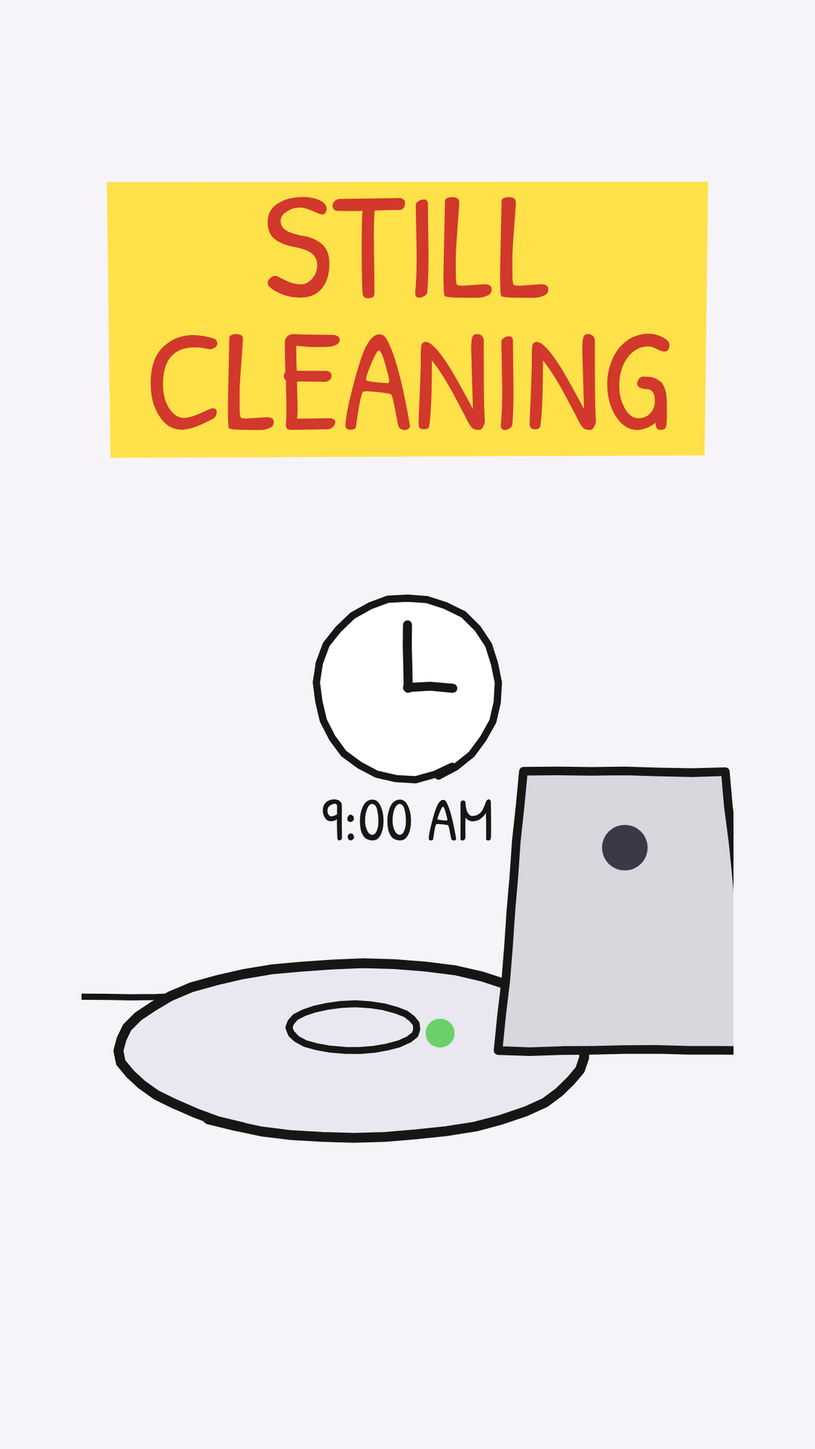
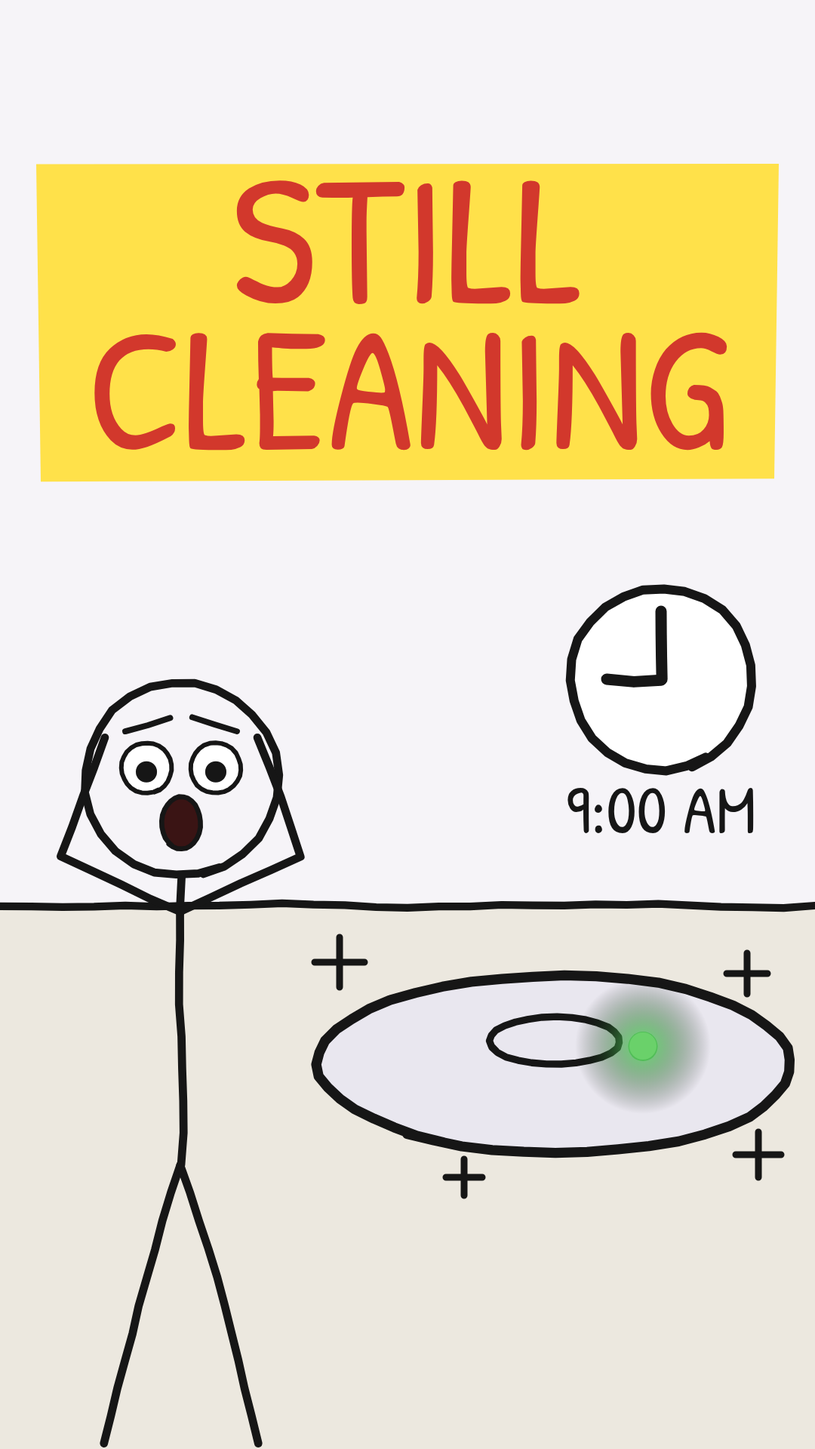
Robot vacuum short: phone-first cover v2 (figure, 2:3 safe), final title/description/tags
Claude-Session: https://claude.ai/code/session_01QZBGd8qH4EfV1MNE2nHfnB

diff --git a/episode4-last-light/source/cover_robot_vacuum_v2.html b/episode4-last-light/source/cover_robot_vacuum_v2.html
@@ -1,0 +1,356 @@
+<!doctype html>
+<html><head><meta charset="utf-8">
+<style>
+@font-face{font-family:"PHL";src:url(../work/node_modules/@fontsource/patrick-hand/files/patrick-hand-latin-400-normal.woff2)}
+@font-face{font-family:"PH";src:url(../work/node_modules/@fontsource/patrick-hand-sc/files/patrick-hand-sc-latin-400-normal.woff2)}
+html,body{margin:0;background:#000;overflow:hidden}canvas{display:block}
+</style></head>
+<body><canvas id="c" width="1080" height="1920"></canvas>
+<script>
+const W=1080,H=1920,CX=540,CY=960,DURATION=147.5;
+const cv=document.getElementById('c'),ctx=cv.getContext('2d');
+const BG='#f6f4f8',INK='#161616',RED='#d2382c',GREY='#a3a1a8',PAPER='#fbfafd',LW=3.4;
+const clamp=(x,a=0,b=1)=>Math.min(b,Math.max(a,x));
+const P=(t,a,b)=>clamp((t-a)/(b-a));
+const lerp=(a,b,k)=>a+(b-a)*k;
+const eOut=k=>1-Math.pow(1-k,3);
+const eIn=k=>k*k*k;
+const eInOut=k=>k<.5?4*k*k*k:1-Math.pow(-2*k+2,3)/2;
+const eBack=k=>{const c1=2.0,c3=c1+1;return 1+c3*Math.pow(k-1,3)+c1*Math.pow(k-1,2)};
+const TAU=Math.PI*2;
+function rng(seed){return()=>{seed|=0;seed=seed+0x6D2B79F5|0;let t=Math.imul(seed^seed>>>15,1|seed);t=t+Math.imul(t^t>>>7,61|t)^t;return((t^t>>>14)>>>0)/4294967296}}
+const nz=(x,s)=>Math.sin(x*1.7+s)*0.5+Math.sin(x*3.1+s*2.3)*0.3+Math.sin(x*7.3+s*5.1)*0.2;
+// pop-in scale: 0 before t0, overshoot then settle
+const pop=(t,t0,d=0.22)=>t<t0?0:eBack(clamp((t-t0)/d));
+
+// ---------------- pen ----------------
+function wob(pts,seed,amp=1.4){ // subdivide + smooth perpendicular wobble
+  const out=[];let s=0;
+  for(let i=0;i<pts.length-1;i++){const[a,b]=[pts[i],pts[i+1]];const dx=b[0]-a[0],dy=b[1]-a[1],L=Math.hypot(dx,dy)||1;const n=Math.max(1,Math.ceil(L/14));const px=-dy/L,py=dx/L;
+    for(let j=0;j<n;j++){const k=j/n,o=nz((s+L*k)*0.025,seed)*amp;out.push([a[0]+dx*k+px*o,a[1]+dy*k+py*o]);}s+=L;}
+  const l=pts[pts.length-1];out.push([l[0],l[1]]);return out;}
+function strokePts(pts,k=1,w=LW,col=INK){
+  if(k<=0||pts.length<2)return;ctx.strokeStyle=col;ctx.lineWidth=w;ctx.lineCap='round';ctx.lineJoin='round';
+  let tot=0;const L=[0];for(let i=1;i<pts.length;i++){tot+=Math.hypot(pts[i][0]-pts[i-1][0],pts[i][1]-pts[i-1][1]);L.push(tot);}
+  const lim=tot*clamp(k);ctx.beginPath();ctx.moveTo(pts[0][0],pts[0][1]);
+  for(let i=1;i<pts.length;i++){if(L[i]<=lim)ctx.lineTo(pts[i][0],pts[i][1]);else{const f=(lim-L[i-1])/(L[i]-L[i-1]||1);ctx.lineTo(lerp(pts[i-1][0],pts[i][0],f),lerp(pts[i-1][1],pts[i][1],f));break;}}
+  ctx.stroke();}
+function line(x1,y1,x2,y2,seed=1,k=1,w=LW,col=INK){strokePts(wob([[x1,y1],[x2,y2]],seed,1.2),k,w,col);}
+function circlePts(x,y,r,seed,ry){const R=rng(seed);const a0=R()*TAU,n=Math.max(28,Math.floor(r*0.6)),pts=[];ry=ry??r;
+  for(let i=0;i<=n;i++){const a=a0+(TAU+0.18)*i/n;const rr=1+0.018*nz(a*2,seed)+(i/n)*0.012;pts.push([x+Math.cos(a)*r*rr,y+Math.sin(a)*ry*rr]);}return pts;}
+function circ(x,y,r,o={}){const pts=circlePts(x,y,r,o.seed??7,o.ry);
+  if(o.fill){ctx.fillStyle=o.fill;ctx.beginPath();ctx.ellipse(x,y,r,o.ry??r,0,0,TAU);ctx.fill();}
+  if(o.dash)ctx.setLineDash(o.dash);strokePts(pts,o.k??1,o.w??LW,o.col??INK);ctx.setLineDash([]);}
+function rect(x,y,w,h,seed=3,k=1,lw=LW,col=INK){const o=5;const R=rng(seed);const sides=[[[x-o*R(),y],[x+w+o*R(),y]],[[x+w,y-o*R()],[x+w,y+h+o*R()]],[[x+w+o*R(),y+h],[x-o*R(),y+h]],[[x,y+h+o*R()],[x,y-o*R()]]];
+  sides.forEach((s,i)=>strokePts(wob(s,seed+i,1.1),clamp(k*4-i),lw,col));}
+function arrow(x1,y1,x2,y2,o={}){const seed=o.seed??5,k=o.k??1,col=o.col??INK,w=o.w??LW,hs=o.head??18;
+  line(x1,y1,x2,y2,seed,k,w,col);if(k<1)return;const a=Math.atan2(y2-y1,x2-x1);
+  for(const s of[-1,1]){const b=a+Math.PI-s*0.5;line(x2,y2,x2+Math.cos(b)*hs,y2+Math.sin(b)*hs,seed+s+3,1,w,col);}
+  if(o.both){for(const s of[-1,1]){const b=a-s*0.5;line(x1,y1,x1+Math.cos(b)*hs,y1+Math.sin(b)*hs,seed+s+9,1,w,col);}}}
+function bigArrow(x1,y1,x2,y2,th,k=1,seed=11){ // hollow block arrow
+  const a=Math.atan2(y2-y1,x2-x1),L=Math.hypot(x2-x1,y2-y1)*k;if(L<5)return;const hl=Math.min(th*2.2,L*0.6),c=Math.cos(a),s=Math.sin(a);
+  const loc=(u,v)=>[x1+c*u-s*v,y1+s*u+c*v];
+  const pts=[loc(0,-th/2),loc(L-hl,-th/2),loc(L-hl,-th*1.15),loc(L,0),loc(L-hl,th*1.15),loc(L-hl,th/2),loc(0,th/2),loc(0,-th/2)];
+  ctx.fillStyle=PAPER;ctx.beginPath();pts.forEach((p,i)=>i?ctx.lineTo(p[0],p[1]):ctx.moveTo(p[0],p[1]));ctx.fill();
+  strokePts(wob(pts,seed,1.1));}
+function txt(s,x,y,size,o={}){ // handwriting, revealed letter by letter when o.k<1
+  const k=o.k??1;if(k<=0)return;ctx.save();ctx.font=`${size}px "PH"`;ctx.textBaseline='middle';ctx.fillStyle=o.col??INK;
+  const full=ctx.measureText(s).width;const n=Math.ceil(s.length*clamp(k));const sub=s.slice(0,n);
+  let x0=o.align==='left'?x:o.align==='right'?x-full:x-full/2;
+  if(o.rot){ctx.translate(x,y);ctx.rotate(o.rot);ctx.translate(-x,-y);}
+  ctx.globalAlpha*=(o.a??1);ctx.fillText(sub,x0,y);ctx.restore();return full;}
+const writeK=(t,t0,s,cps=26)=>t<t0?0:clamp((t-t0)*cps/Math.max(1,s.length));
+function sup(base,exp,x,y,size,o={}){ctx.save();ctx.font=`${size}px "PH"`;ctx.textBaseline='middle';ctx.fillStyle=o.col??INK;const wb=ctx.measureText(base).width;ctx.font=`${size*0.55}px "PH"`;const we=ctx.measureText(exp).width;
+  const x0=x-(wb+we)/2;ctx.font=`${size}px "PH"`;ctx.fillText(base,x0,y);ctx.font=`${size*0.55}px "PH"`;ctx.fillText(exp,x0+wb+2,y-size*0.38);ctx.restore();}
+function scribble(x,y,w,h,seed,k,col=RED){const R=rng(seed);const pts=[];const n=9;for(let i=0;i<=n;i++){pts.push([x+w*i/n+(R()-.5)*8,y+(i%2?-h/2:h/2)+(R()-.5)*6]);}strokePts(wob(pts,seed,1),k,4,col);}
+function motionLines(x,y,ang,len,n,seed,k=1){const c=Math.cos(ang),s=Math.sin(ang),R=rng(seed);for(let i=0;i<n;i++){const off=(i-(n-1)/2)*14;const l=len*(0.6+R()*0.4);
+  const sx=x-c*20-s*off,sy=y-s*20+c*off;line(sx,sy,sx-c*l,sy-s*l,seed+i,k,2.6);}}
+function shakeMarks(x,y,r,seed,a=1){if(a<=0)return;ctx.save();ctx.globalAlpha=a;for(const side of[-1,1]){for(let i=0;i<2;i++){const rr=r+16+i*14;const pts=[];for(let j=0;j<=8;j++){const an=(side<0?Math.PI:0)+(-0.35+0.7*j/8);pts.push([x+Math.cos(an)*rr,y+Math.sin(an)*rr]);}strokePts(wob(pts,seed+i+side*5,0.8),1,2.6);}}ctx.restore();}
+
+// ---------------- glyphs ----------------
+function proton(x,y,r,o={}){const s=o.s??1;if(s<=0)return;r*=s;circ(x,y,r,{fill:PAPER,seed:o.seed??Math.floor(x*7+y*3),w:o.w??LW});
+  const c=o.plusCol??INK,q=r*0.5;line(x-q,y,x+q,y,(o.seed??1)+1,1,o.w??LW,c);line(x,y-q,x,y+q,(o.seed??1)+2,1,o.w??LW,c);}
+function electron(x,y,r,o={}){const s=o.s??1;if(s<=0)return;r*=s;circ(x,y,r,{fill:PAPER,seed:o.seed??Math.floor(x*5+y*11),w:o.w??LW});
+  ctx.save();ctx.font=`${r*1.5}px "PHL"`;ctx.textAlign='center';ctx.textBaseline='middle';ctx.fillStyle=INK;ctx.fillText('e',x-r*0.1,y-r*0.08);ctx.font=`${r*0.9}px "PHL"`;ctx.fillText('-',x+r*0.45,y-r*0.45);ctx.restore();}
+function neutron(x,y,r,o={}){const s=o.s??1;if(s<=0)return;r*=s;circ(x,y,r,{fill:'#d9d7de',seed:o.seed??Math.floor(x*3+y*13),w:o.w??LW});}
+// sprite for dense proton fills
+const PSPR=(()=>{const c=document.createElement('canvas');c.width=c.height=64;const g=c.getContext('2d');g.fillStyle=PAPER;g.strokeStyle=INK;g.lineWidth=3;g.lineCap='round';
+  g.beginPath();g.arc(32,32,24,0,TAU);g.fill();g.stroke();g.beginPath();g.moveTo(20,32);g.lineTo(44,32);g.moveTo(32,20);g.lineTo(32,44);g.stroke();return c;})();
+// moon texture (grey with ink craters), drawn in clip
+const MOONTEX=(()=>{const s=600,c=document.createElement('canvas');c.width=c.height=s;const g=c.getContext('2d');const R=rng(31);
+  g.fillStyle='#9e9ca4';g.fillRect(0,0,s,s);
+  for(let i=0;i<40;i++){g.fillStyle=R()<.5?'rgba(60,58,66,0.18)':'rgba(255,255,255,0.12)';g.beginPath();g.arc(R()*s,R()*s,20+R()*70,0,TAU);g.fill();}
+  g.strokeStyle='#2a2a2e';g.lineCap='round';
+  for(let i=0;i<220;i++){const r=3+Math.pow(R(),2.5)*30,x=R()*s,y=R()*s;g.lineWidth=r>12?2.2:1.6;g.beginPath();g.arc(x,y,r,R()*TAU,R()*TAU+TAU*(0.6+R()*0.4));g.stroke();}
+  for(let i=0;i<500;i++){g.fillStyle='rgba(30,30,34,0.5)';g.fillRect(R()*s,R()*s,2,2);}
+  return c;})();
+function moon(x,y,r,o={}){const s=o.s??1;if(s<=0)return;r*=s;ctx.save();ctx.beginPath();ctx.arc(x,y,r,0,TAU);ctx.clip();ctx.drawImage(MOONTEX,x-r,y-r,r*2,r*2);ctx.restore();circ(x,y,r,{seed:o.seed??41,w:LW+0.6});}
+function protonBall(x,y,r,o={}){ // moon made of protons
+  const s=o.s??1;if(s<=0)return;r*=s;const pr=o.pr??15,jit=o.jit??0,t=o.t??0;ctx.save();ctx.beginPath();ctx.arc(x,y,r+pr,0,TAU);ctx.clip();
+  const st=pr*1.95;let i=0;for(let yy=-r;yy<=r;yy+=st*0.87){const off=(Math.round(yy/(st*0.87))&1)*st/2;for(let xx=-r-off;xx<=r;xx+=st){i++;if(xx*xx+yy*yy>(r-pr*0.6)**2)continue;
+    const jx=nz(t*18+i,i)*jit,jy=nz(t*21+i*1.3,i+4)*jit;ctx.drawImage(PSPR,x+xx+jx-pr,y+yy+jy-pr,pr*2,pr*2);}}
+  ctx.restore();circ(x,y,r,{seed:o.seed??43,w:LW+0.4});}
+
+// ---------------- stick figure ----------------
+const POSES={
+  rest:{la:[-0.22,-0.12],ra:[0.22,0.12],ll:[-0.28,-0.22],rl:[0.28,0.22],paper:0},
+  paper:{la:[-0.22,-0.12],ra:[0.45,2.45],ll:[-0.26,-0.2],rl:[0.26,0.2],paper:1},
+  point:{la:[-0.22,-0.12],ra:[2.1,2.05],ll:[-0.26,-0.2],rl:[0.26,0.2],paper:0},
+  chin:{la:[-0.3,0.9],ra:[0.35,2.75],ll:[-0.24,-0.18],rl:[0.24,0.18],paper:0},
+  shrug:{la:[-0.9,-2.2],ra:[0.9,2.2],ll:[-0.26,-0.2],rl:[0.26,0.2],paper:0},
+  up:{la:[-2.55,-2.85],ra:[2.55,2.85],ll:[-0.32,-0.25],rl:[0.32,0.25],paper:0},
+};
+function lerpPose(a,b,k){const o={};for(const key of['la','ra','ll','rl'])o[key]=[lerp(a[key][0],b[key][0],k),lerp(a[key][1],b[key][1],k)];o.paper=lerp(a.paper,b.paper,k);return o;}
+function figure(x,y,pose,o={}){ // y = ground at feet
+  if((o.s??1)<0.15)return;
+  const sc=o.s??1;ctx.save();ctx.translate(x,y);if(o.rot)ctx.rotate(o.rot);ctx.scale(sc,sc);const seed=o.seed??100;
+  const hip=[0,-112],neck=[0,-226],sh=[0,-212],head=[0,-264];
+  const seg=(p,a,L)=>[p[0]+Math.sin(a)*L,p[1]+Math.cos(a)*L];
+  const limb=(p,ang,L1,L2,sd)=>{const m=seg(p,ang[0],L1),e=seg(m,ang[1],L2);strokePts(wob([p,m,e],sd,0.8),1,LW/sc*1.05);return e;};
+  circ(head[0],head[1],38,{seed:seed,fill:BG,w:LW/sc*1.05});
+  line(neck[0],neck[1],hip[0],hip[1],seed+1,1,LW/sc*1.05);
+  limb(hip,pose.ll,58,56,seed+2);limb(hip,pose.rl,58,56,seed+3);
+  limb(sh,pose.la,52,50,seed+4);const hand=limb(sh,pose.ra,52,50,seed+5);
+  if(pose.paper>0.5){ctx.save();ctx.translate(hand[0]+6,hand[1]-6);ctx.rotate(0.12);ctx.fillStyle=PAPER;ctx.fillRect(-10,-38,50,68);rect(-10,-38,50,68,seed+6,1,LW*0.8/sc);for(let i=0;i<4;i++)line(-2,-24+i*13,30,-24+i*13,seed+10+i,1,1.4,'#777');ctx.restore();}
+  ctx.restore();}
+function speech(x,y,s,k,size=40){if(k<=0)return;txt(s,x,y,size,{k});const w=txt(s,-9999,-9999,size);line(x-10,y+size*0.55,x-26,y+size*1.25,77,clamp(k*2),2.6);}
+function board(x,y,w,h,k=1,seed=200){ctx.save();ctx.fillStyle='#fdfcff';ctx.globalAlpha=clamp(k*3);ctx.fillRect(x,y,w,h);ctx.restore();rect(x,y,w,h,seed,k,LW+0.4);rect(x+9,y+9,w-18,h-18,seed+4,k,2.2);
+  if(k>=1){rect(x-22,y+h,w+44,16,seed+8,1,LW);rect(x+40,y+h-12,60,12,seed+9,1,2.4);rect(x+w-150,y+h-14,46,14,seed+10,1,2.4);rect(x+w-96,y+h-12,58,12,seed+11,1,2.4);}}
+
+// ================= VIDEO 2: What if the Moon were made of antimatter? =================
+// timings come from the forced alignment of the voiceover (align.json)
+const PINK='#fbe3e0',SUNY='#fff1c2',SEA='#e9eef7',LAND='#cfcbd6';
+
+// ---------- extra glyphs ----------
+function antiproton(x,y,r,o={}){const s=o.s??1;if(s<=0)return;r*=s;const sd=o.seed??Math.floor(x*7+y*3);circ(x,y,r,{fill:PINK,seed:sd,col:RED,w:o.w??LW});line(x-r*0.5,y,x+r*0.5,y,sd+1,1,o.w??LW,RED);}
+function positron(x,y,r,o={}){const s=o.s??1;if(s<=0)return;r*=s;circ(x,y,r,{fill:PINK,seed:o.seed??Math.floor(x*5+y*11),col:RED,w:o.w??LW});
+  ctx.save();ctx.font=`${r*1.5}px "PHL"`;ctx.textAlign='center';ctx.textBaseline='middle';ctx.fillStyle=RED;ctx.fillText('e',x-r*0.1,y-r*0.08);ctx.font=`${r*0.95}px "PHL"`;ctx.fillText('+',x+r*0.47,y-r*0.42);ctx.restore();}
+function antineutron(x,y,r,o={}){const s=o.s??1;if(s<=0)return;r*=s;circ(x,y,r,{fill:'#ecd3d6',seed:o.seed??Math.floor(x*3+y*13),col:RED,w:o.w??LW});}
+const APSPR=(()=>{const c=document.createElement('canvas');c.width=c.height=64;const g=c.getContext('2d');g.fillStyle=PINK;g.strokeStyle=RED;g.lineWidth=3;g.lineCap='round';
+  g.beginPath();g.arc(32,32,24,0,TAU);g.fill();g.stroke();g.beginPath();g.moveTo(20,32);g.lineTo(44,32);g.stroke();return c;})();
+function antiBall(x,y,r,o={}){const s=o.s??1;if(s<=0)return;r*=s;const pr=o.pr??15,jit=o.jit??0,t=o.t??0;ctx.save();ctx.beginPath();ctx.arc(x,y,r+pr,0,TAU);ctx.clip();
+  const st=pr*1.95;let i=0;for(let yy=-r;yy<=r;yy+=st*0.87){const off=(Math.round(yy/(st*0.87))&1)*st/2;for(let xx=-r-off;xx<=r;xx+=st){i++;if(xx*xx+yy*yy>(r-pr*0.6)**2)continue;
+    const jx=nz(t*18+i,i)*jit,jy=nz(t*21+i*1.3,i+4)*jit;ctx.drawImage(APSPR,x+xx+jx-pr,y+yy+jy-pr,pr*2,pr*2);}}
+  ctx.restore();circ(x,y,r,{seed:o.seed??47,w:LW+0.4,col:RED});}
+function antiMoon(x,y,r,o={}){const s=o.s??1;if(s<=0)return;moon(x,y,r,o);circ(x,y,(r+12)*s,{col:RED,w:3,dash:[12,10],seed:(o.seed??41)+5});}
+function earth(x,y,r,o={}){const s=o.s??1;if(s<=0)return;r*=s;const sd=o.seed??61;ctx.save();ctx.beginPath();ctx.arc(x,y,r,0,TAU);ctx.fillStyle=SEA;ctx.fill();ctx.clip();
+  const R=rng(sd);const blobs=o.simple?2:5;for(let b=0;b<blobs;b++){const bx=x+(R()-.5)*r*1.3,by=y+(R()-.5)*r*1.3,br=r*(0.22+R()*0.25);const pts=[];for(let i=0;i<=16;i++){const a=i/16*TAU;const rr=br*(0.7+0.5*R());pts.push([bx+Math.cos(a)*rr,by+Math.sin(a)*rr*0.8]);}pts.push(pts[0]);
+    ctx.fillStyle=LAND;ctx.beginPath();pts.forEach((p,i)=>i?ctx.lineTo(p[0],p[1]):ctx.moveTo(p[0],p[1]));ctx.fill();if(!o.simple)strokePts(wob(pts,sd+b,0.8),1,2,INK);}
+  ctx.restore();circ(x,y,r,{seed:sd+9,w:o.w??LW+0.4});}
+function sunGlyph(x,y,r,t,o={}){const sd=o.seed??71;for(let i=0;i<16;i++){const a=i/16*TAU+t*0.15;const r0=r+16,r1=r+(i%2?46:70);line(x+Math.cos(a)*r0,y+Math.sin(a)*r0,x+Math.cos(a)*r1,y+Math.sin(a)*r1,sd+i,1,3.2);}
+  circ(x,y,r,{fill:SUNY,seed:sd,w:LW+0.6});}
+function cloudPath(x,y,rx,ry,seed){const R=rng(seed);const pts=[];const n=11;for(let i=0;i<n;i++){const a0=i/n*TAU,a1=(i+1)/n*TAU,b=0.18+R()*0.12;for(let j=0;j<=6;j++){const a=lerp(a0,a1,j/6);const bump=1+b*Math.sin(j/6*Math.PI);pts.push([x+Math.cos(a)*rx*bump,y+Math.sin(a)*ry*bump]);}}pts.push(pts[0]);return pts;}
+function fillPts(pts,col){ctx.fillStyle=col;ctx.beginPath();pts.forEach((p,i)=>i?ctx.lineTo(p[0],p[1]):ctx.moveTo(p[0],p[1]));ctx.closePath();ctx.fill();}
+function mushroom(x,y,s,seed){if(s<=0)return;const sw=24*s,sh=120*s;
+  const stem=[[x-sw,y],[x-sw*0.55,y-sh],[x+sw*0.55,y-sh],[x+sw,y]];fillPts(stem,PAPER);strokePts(wob([stem[0],stem[1]],seed,1));strokePts(wob([stem[3],stem[2]],seed+1,1));
+  const base=cloudPath(x,y,85*s,20*s,seed+2);fillPts(base,PAPER);strokePts(wob(base,seed+3,0.8),1,LW);
+  const cap=cloudPath(x,y-sh-40*s,100*s,55*s,seed+4);fillPts(cap,PAPER);strokePts(wob(cap,seed+5,0.8),1,LW);
+  line(x-60*s,y-sh-45*s,x+50*s,y-sh-30*s,seed+6,1,2,'#888');}
+function boom(x,y,tl,R,seed,o={}){if(tl<0)return;const k=eOut(clamp(tl/0.3));const fade=1-clamp((tl-(o.hold??0.35))/(o.fade??0.8));if(fade<=0)return;
+  ctx.save();ctx.globalAlpha=fade;const r0=rng(seed);const n=18,pts=[];for(let i=0;i<n*2;i++){const a=i/(n*2)*TAU;const rr=R*k*(i%2?0.55:1)*(0.85+r0()*0.3);pts.push([x+Math.cos(a)*rr,y+Math.sin(a)*rr]);}pts.push(pts[0]);
+  fillPts(pts,'#fffdf4');strokePts(wob(pts,seed,1),1,LW);
+  const inner=pts.map(([px,py])=>[x+(px-x)*0.55,y+(py-y)*0.55]);fillPts(inner,'#fde0c8');strokePts(wob(inner,seed+1,0.8),1,2.4,RED);
+  for(let i=0;i<14;i++){const a=i/14*TAU+0.2;const a0=R*k*1.1,a1=R*k*(1.35+r0()*0.3);line(x+Math.cos(a)*a0,y+Math.sin(a)*a0,x+Math.cos(a)*a1,y+Math.sin(a)*a1,seed+10+i,1,3);}
+  ctx.restore();}
+function greyFlash(x,y,tl,dur=0.9){const fk=clamp(tl/dur);if(tl<0||fk>=1)return;const g=ctx.createRadialGradient(x,y,0,x,y,1500);g.addColorStop(0,'rgba(255,255,255,1)');g.addColorStop(0.25,`rgba(205,203,210,${0.9*(1-fk)})`);g.addColorStop(1,`rgba(120,118,128,${0.85*(1-fk)})`);ctx.fillStyle=g;ctx.fillRect(-50,-50,W+100,H+100);}
+function rockGlyph(x,y,r,seed,anti=false){const R=rng(seed);const pts=[];for(let i=0;i<10;i++){const a=i/10*TAU;const rr=r*(0.78+R()*0.32);pts.push([x+Math.cos(a)*rr,y+Math.sin(a)*rr*0.85]);}pts.push(pts[0]);
+  fillPts(pts,anti?PINK:'#d6d3dc');strokePts(wob(pts,seed,0.8),1,LW,anti?RED:INK);for(let i=0;i<3;i++){const hx=x+(R()-.5)*r,hy=y+(R()-.5)*r*0.6;line(hx,hy,hx+r*0.25,hy-r*0.12,seed+i+3,1,2,anti?RED:'#666');}}
+function check(x,y,sz,k,col=RED){if(k<=0)return;strokePts([[x-sz*0.5,y],[x-sz*0.12,y+sz*0.42],[x+sz*0.6,y-sz*0.5]],k,5,col);}
+function cross(x,y,sz,k,col=RED){if(k<=0)return;line(x-sz,y-sz,x+sz,y+sz,901,clamp(k*2),5,col);line(x+sz,y-sz,x-sz,y+sz,902,clamp(k*2-1),5,col);}
+function cube(x,y,s,anti,o={}){if(s<=0)return;const a=50*s,d=22*s;const col=anti?RED:INK,f=anti?PINK:PAPER;
+  fillPts([[x-a/2,y-a/2],[x+a/2,y-a/2],[x+a/2,y+a/2],[x-a/2,y+a/2]],f);fillPts([[x-a/2,y-a/2],[x-a/2+d,y-a/2-d],[x+a/2+d,y-a/2-d],[x+a/2,y-a/2]],f);fillPts([[x+a/2,y-a/2],[x+a/2+d,y-a/2-d],[x+a/2+d,y+a/2-d],[x+a/2,y+a/2]],f);
+  rect(x-a/2,y-a/2,a,a,o.seed??5,1,LW,col);strokePts(wob([[x-a/2,y-a/2],[x-a/2+d,y-a/2-d],[x+a/2+d,y-a/2-d],[x+a/2+d,y+a/2-d],[x+a/2,y+a/2]],(o.seed??5)+3,0.8),1,LW,col);line(x+a/2,y-a/2,x+a/2+d,y-a/2-d,(o.seed??5)+4,1,LW,col);}
+function wave(x1,y1,x2,y2,k,seed,col=RED,amp=9,wl=26,w=2.8){const L=Math.hypot(x2-x1,y2-y1),ux=(x2-x1)/L,uy=(y2-y1)/L;const pts=[];for(let s=0;s<=L;s+=4){const o=Math.sin(s/wl*TAU+seed)*amp;pts.push([x1+ux*s-uy*o,y1+uy*s+ux*o]);}strokePts(pts,k,w,col);}
+function heart(x,y,s,col=RED){const pts=[];for(let i=0;i<=40;i++){const t=i/40*TAU;const hx=16*Math.sin(t)**3,hy=-(13*Math.cos(t)-5*Math.cos(2*t)-2*Math.cos(3*t)-Math.cos(4*t));pts.push([x+hx*s,y+hy*s]);}fillPts(pts,'#f6c7c2');strokePts(wob(pts,77,0.6),1,3,col);}
+function lander(x,y,s,seed=1201){const P2=(px,py)=>[x+px*s,y+py*s];
+  for(const sx of[-1,1]){strokePts(wob([P2(sx*40,20),P2(sx*78,78)],seed+sx,0.6),1,LW);line(...P2(sx*90,80),...P2(sx*66,80),seed+sx+3,1,LW);}
+  fillPts([P2(-48,-30),P2(48,-30),P2(52,24),P2(-52,24)],PAPER);rect(x-50*s,y-30*s,100*s,54*s,seed+5,1,LW);
+  const top=[P2(-34,-30),P2(-26,-78),P2(26,-78),P2(34,-30)];fillPts(top,PAPER);strokePts(wob([...top],seed+6,0.6));
+  circ(x,y-56*s,10*s,{seed:seed+7,w:2.4,fill:PAPER});fillPts([P2(-14,24),P2(14,24),P2(20,44),P2(-20,44)],PAPER);strokePts(wob([P2(-14,24),P2(-20,44),P2(20,44),P2(14,24)],seed+8,0.5));}
+function helmetFig(x,y,pose,o={}){figure(x,y,pose,o);const s=o.s??1;circ(x,y-264*s,52*s,{seed:1300,w:2.6});}
+function mirrorPose(p){return{la:[-p.ra[0],-p.ra[1]],ra:[-p.la[0],-p.la[1]],ll:[-p.rl[0],-p.rl[1]],rl:[-p.ll[0],-p.ll[1]],paper:p.paper};}
+function horns(x,y,s,k){if(k<=0)return;const hx=x,hy=y-264*s;ctx.save();ctx.translate(hx,hy);ctx.scale(k,k);for(const sd of[-1,1]){const pts=[[sd*18*s,-30*s],[sd*30*s,-62*s],[sd*34*s,-26*s]];fillPts(pts,PINK);strokePts(wob(pts,1400+sd,0.4),1,3,RED);}
+  const g=[[-10*s,36*s],[0,62*s],[10*s,36*s]];fillPts(g,INK);ctx.restore();}
+function mirrorFrame(x,y0,y1,k){rect(x-22,y0,44,(y1-y0)*clamp(k*1.2),1500,clamp(k*1.3),LW);if(k>0.6){for(let i=0;i<6;i++){const yy=y0+60+i*((y1-y0-120)/5);line(x-12,yy+14,x+8,yy-10,1510+i,clamp((k-0.6)*3),2,'#9a98a2');}}}
+const NUCA=(()=>{const R=rng(9),a=[];const pts=[[0,0],[30,-12],[-28,-16],[8,28],[-24,24],[26,24],[-4,-34],[36,12]];pts.forEach((p,i)=>a.push({x:p[0],y:p[1],p:i%2===0,z:R()}));a.sort((u,v)=>(u.p-v.p)||(u.z-v.z));return a;})();
+function antiAtom(x,y,S,t,o={}){circ(x,y,150*S,{ry:52*S,dash:[10,10],seed:1600,w:2.4,col:RED,k:o.k??1});NUCA.forEach((n,i)=>{const fn=n.p?antiproton:antineutron;fn(x+n.x*S,y+n.y*S,24*S,{seed:1610+i});});
+  const th=t*2.2;positron(x+Math.cos(th)*150*S,y+Math.sin(th)*52*S,18*S,{seed:1620});}
+function flyingDebris(x,y,tl,n,seed,fn){const R=rng(seed);for(let i=0;i<n;i++){const a=R()*TAU,sp=500+R()*900;const d=sp*tl+300*tl*tl;const px=x+Math.cos(a)*d,py=y+Math.sin(a)*d+400*tl*tl;if(px<-80||px>W+80||py<-80||py>H+80)continue;
+  if(d>40)motionLines(px,py,a,Math.min(120,d*0.4),2,seed+i,1);fn(px,py,i);}}
+
+
+// ================= VIDEO 3: What if the Moon were a black hole? =================
+// timings from align.json (forced alignment of the final take)
+const NIGHT='#2c2b36';
+
+// ---------- new glyphs ----------
+function hole(x,y,r,t,o={}){const s=o.s??1;if(s<=0)return;r*=s;
+  if(o.ring!==false){ctx.save();ctx.globalAlpha=0.8;circ(x,y,r*2.1,{dash:[6,7],seed:5001,w:2.2,col:'#6b6975'});ctx.restore();
+    for(let i=0;i<3;i++){const a=t*1.4+i*2.1;const pts=[];for(let j=0;j<=10;j++){const aa=a+j*0.16;const rr=r*(2.6-j*0.1);pts.push([x+Math.cos(aa)*rr,y+Math.sin(aa)*rr*0.55]);}strokePts(pts,1,1.8,'#8a8894');}}
+  ctx.fillStyle='#111';ctx.beginPath();ctx.arc(x,y,r,0,TAU);ctx.fill();}
+function magnifier(x,y,r,k,o={}){if(k<=0)return;ctx.save();ctx.globalAlpha=clamp(k*2);circ(x,y,r*eOut(k),{seed:5010,w:LW+1.5,fill:o.fill});
+  const a=Math.PI*0.25;const x0=x+Math.cos(a)*r,y0=y+Math.sin(a)*r;if(k>0.6){ctx.save();ctx.lineCap='round';ctx.strokeStyle=INK;ctx.lineWidth=18;ctx.beginPath();ctx.moveTo(x0+6,y0+6);ctx.lineTo(x0+r*0.7,y0+r*0.7);ctx.stroke();ctx.restore();}ctx.restore();}
+function sandGrain(x,y,r,seed=5020){const R=rng(seed),pts=[];for(let i=0;i<9;i++){const a=i/9*TAU;pts.push([x+Math.cos(a)*r*(0.8+R()*0.3),y+Math.sin(a)*r*(0.75+R()*0.3)]);}pts.push(pts[0]);fillPts(pts,'#ecd9a8');strokePts(wob(pts,seed,0.6),1,LW);
+  for(let i=0;i<6;i++){ctx.fillStyle='#b99a5a';ctx.fillRect(x+(R()-.5)*r,y+(R()-.5)*r,3,3);}}
+function pencilTip(x,y,s){const P2=(px,py)=>[x+px*s,y+py*s];const wood=[P2(0,0),P2(230,-60),P2(230,60)];fillPts(wood,'#f2d6a6');strokePts(wob([...wood,wood[0]],5030,0.6));
+  const lead=[P2(0,0),P2(60,-15.6),P2(60,15.6)];fillPts(lead,'#555');strokePts(wob([...lead,lead[0]],5031,0.4));fillPts([P2(230,-60),P2(420,-60),P2(420,60),P2(230,60)],'#f6c445');rect(x+230*s,y-60*s,190*s,120*s,5032,1,LW);
+  line(...P2(230,-20),...P2(420,-20),5033,1,2,'#c99a1f');line(...P2(230,20),...P2(420,20),5034,1,2,'#c99a1f');}
+function bigWave(x,y,s,seed){const pts=[];for(let i=0;i<=30;i++){const u=i/30;pts.push([x-160*s+u*320*s,y-Math.sin(u*Math.PI)*120*s*(u<0.7?1:1.2)]);}
+  const curl=[];for(let i=0;i<=16;i++){const a=-Math.PI/2+i/16*Math.PI*1.4;curl.push([x+70*s+Math.cos(a)*55*s,y-120*s+55*s+Math.sin(a)*55*s]);}
+  fillPts([...pts,[x+160*s,y],[x-160*s,y]],'#d7e3f3');strokePts(wob(pts,seed,0.8),1,LW,'#2f5d9a');strokePts(wob(curl,seed+1,0.6),1,LW,'#2f5d9a');line(x-180*s,y,x+180*s,y,seed+2,1,LW,'#2f5d9a');}
+function quake(x,y,s,seed){line(x-170*s,y,x+170*s,y,seed,1,LW);const R=rng(seed);const pts=[[x-20*s,y]];for(let i=1;i<7;i++)pts.push([x-20*s+(R()-.5)*40*s,y+i*16*s]);strokePts(wob(pts,seed+1,0.6),1,4,RED);
+  for(const sd of[-1,1])fillPts([[x+sd*60*s,y],[x+sd*110*s,y],[x+sd*110*s,y-60*s],[x+sd*60*s,y-90*s]],PAPER),strokePts(wob([[x+sd*60*s,y],[x+sd*60*s,y-90*s],[x+sd*110*s,y-60*s],[x+sd*110*s,y]],seed+2+sd,0.5),1,LW);
+  for(let i=0;i<3;i++){shakeMarks(x,y-40*s,70*s,seed+5+i,1);}}
+function rocket(x,y,s,seed=5050,flame=0){ctx.save();ctx.translate(x,y);ctx.scale(s,s);
+  if(flame>0){for(let i=-2;i<=2;i++){const fl=(50+30*Math.sin(flame*30+i))*clamp(flame);line(-110,i*8,-110-fl,i*12,seed+i,1,2.6,i%2?RED:'#e08a2e');}}
+  const body=[[-110,-34],[60,-34],[120,0],[60,34],[-110,34]];fillPts(body,PAPER);strokePts(wob([...body,body[0]],seed,0.6));
+  for(const sd of[-1,1]){const f=[[-110,sd*34],[-80,sd*34],[-125,sd*75]];fillPts(f,PINK);strokePts(wob([...f,f[0]],seed+sd+3,0.5),1,LW,RED);}
+  circ(30,0,16,{seed:seed+7,fill:'#d7e3f3',w:2.6});ctx.restore();}
+function telescope(x,y,s){ctx.save();ctx.translate(x,y);ctx.scale(s,s);
+  for(const dx of[-60,0,60])line(0,0,dx,170,5060+dx,1,LW);
+  ctx.rotate(-0.5);fillPts([[-40,-26],[170,-38],[170,38],[-40,26]],PAPER);strokePts(wob([[-40,-26],[170,-38],[170,38],[-40,26],[-40,-26]],5065,0.5));line(150,-38,150,38,5066,1,2);ctx.restore();}
+function thermo(x,y,h,fill,col,seed){fillPts([[x-14,y-h],[x+14,y-h],[x+14,y],[x-14,y]],PAPER);rect(x-14,y-h,28,h,seed,1,LW);
+  ctx.fillStyle=col;ctx.fillRect(x-7,y-h*fill,14,h*fill);circ(x,y+18,26,{fill:col,seed:seed+1,w:LW});for(let i=1;i<6;i++)line(x+14,y-h*i/6,x+28,y-h*i/6,seed+2+i,1,2);}
+function lightSwitch(x,y,on,s=1){fillPts([[x-60*s,y-90*s],[x+60*s,y-90*s],[x+60*s,y+90*s],[x-60*s,y+90*s]],PAPER);rect(x-60*s,y-90*s,120*s,180*s,5080,1,LW);
+  rect(x-22*s,y-45*s,44*s,90*s,5081,1,LW);const ty=on?-22:22;fillPts([[x-18*s,y+(ty-20)*s],[x+18*s,y+(ty-20)*s],[x+18*s,y+(ty+20)*s],[x-18*s,y+(ty+20)*s]],on?'#ffe066':'#888');
+  txt(on?'ON':'OFF',x,y-120*s,40*s,{col:on?INK:RED});}
+function frame(x,y,w,h,seed){fillPts([[x-w/2,y-h/2],[x+w/2,y-h/2],[x+w/2,y+h/2],[x-w/2,y+h/2]],'#e9d7b9');rect(x-w/2,y-h/2,w,h,seed,1,LW+1);rect(x-w/2+16,y-h/2+16,w-32,h-32,seed+1,1,2.4);}
+function likeButton(x,y,s,pressed){ctx.save();ctx.translate(x,y);ctx.scale(s,s);const rr=[[-150,-100],[150,-100],[150,100],[-150,100]];fillPts(rr,pressed?'#ffd7d2':PAPER);rect(-150,-100,300,200,5090,1,LW+1,pressed?RED:INK);
+  // hand-drawn thumbs up
+  const col=pressed?RED:INK;fillPts([[-70,-5],[-35,-5],[-35,70],[-70,70]],PAPER);rect(-70,-5,35,75,5091,1,LW,col);
+  const hand=[[-30,-5],[0,-25],[10,-75],[35,-70],[30,-15],[75,-15],[80,0],[72,15],[78,30],[68,45],[72,58],[60,70],[-30,70]];fillPts(hand,PAPER);strokePts(wob([...hand,hand[0]],5092,0.5),1,LW,col);ctx.restore();}
+function crescent(x,y,r,seed){ctx.save();moon(x,y,r,{seed});ctx.beginPath();ctx.arc(x,y,r+2,0,TAU);ctx.clip();ctx.fillStyle=BG;ctx.beginPath();ctx.arc(x+r*0.55,y-r*0.1,r*0.95,0,TAU);ctx.fill();ctx.restore();}
+function eclipse(x,y,r,t){for(let i=0;i<24;i++){const a=i/24*TAU+t*0.1;const l=r*(1.25+0.25*Math.sin(i*3.7));line(x+Math.cos(a)*r*1.05,y+Math.sin(a)*r*1.05,x+Math.cos(a)*l,y+Math.sin(a)*l,5100+i,1,2.2,'#d9a400');}
+  circ(x,y,r*1.08,{fill:'#ffe9a8',seed:5130,w:2,col:'#d9a400'});ctx.fillStyle='#1a1a1f';ctx.beginPath();ctx.arc(x,y,r,0,TAU);ctx.fill();}
+function nightSky(x,y,w,h,t,seed=5140){ctx.fillStyle=NIGHT;ctx.fillRect(x,y,w,h);rect(x,y,w,h,seed,1,LW+0.6);const R=rng(seed);for(let i=0;i<70;i++){const sx=x+12+R()*(w-24),sy=y+12+R()*(h-24),tw=0.5+0.5*Math.sin(t*3+i);ctx.fillStyle=`rgba(255,255,240,${0.4+0.6*tw})`;const ss=R()<0.15?3.2:1.8;ctx.fillRect(sx,sy,ss,ss);}}
+function cam(z,fx=CX,fy=CY){ctx.translate(fx,fy);ctx.scale(z,z);ctx.translate(-fx,-fy);}
+
+
+// ================= EPISODE 4: Every human vanished — the last light =================
+// timings from align.json (final, tightened voiceover)
+const WIN='#ffd84a',EXITG='#39d27a';
+function softGlow(x,y,r,c,a){if(a<=0)return;const g=ctx.createRadialGradient(x,y,0,x,y,r);g.addColorStop(0,c);g.addColorStop(1,'rgba(0,0,0,0)');ctx.save();ctx.globalAlpha=a;ctx.fillStyle=g;ctx.fillRect(x-r,y-r,2*r,2*r);ctx.restore();}
+
+function nightPanel(x,y,w,h,t,seed=7001,a=1){if(a<=0)return;ctx.save();ctx.globalAlpha=a;ctx.fillStyle=NIGHT;ctx.fillRect(x,y,w,h);const R=rng(seed);for(let i=0;i<90;i++){const sx=x+R()*w,sy=y+R()*h*0.6,tw=0.5+0.5*Math.sin(t*3+i);ctx.fillStyle=`rgba(255,255,240,${0.3+0.6*tw})`;ctx.fillRect(sx,sy,R()<0.15?3:2,R()<0.15?3:2);}ctx.restore();rect(x,y,w,h,seed+1,1,LW+0.6);}
+
+// ---------- city skyline: windows switch off by time ----------
+const CITY=(()=>{const R=rng(7100),b=[];let x=150;while(x<1780){const w=110+R()*120,h=220+R()*420;b.push({x,w,h,cols:Math.max(2,Math.floor(w/42)),rows:Math.max(3,Math.floor(h/58)),ph:R()});x+=w+18+R()*30;}return b;})();
+function city(t,offAt,base=980,o={}){ // offAt(b,i) -> time this window goes dark (Infinity = stays lit)
+  CITY.forEach((b,bi)=>{const x=b.x,y=base-b.h;ctx.fillStyle='#3d3c4a';ctx.fillRect(x,y,b.w,b.h);rect(x,y,b.w,b.h,7110+bi,1,2.6,'#0f0f14');
+    const cw=b.w/(b.cols+1),ch=b.h/(b.rows+1);let k=0;
+    for(let r=0;r<b.rows;r++)for(let c=0;c<b.cols;c++){k++;const wx=x+cw*(c+1)-11,wy=y+ch*(r+1)-12;const lit=t<offAt(bi,k,b);
+      ctx.fillStyle=lit?WIN:'#2a2934';ctx.fillRect(wx,wy,22,24);}
+  });
+  if(o.street){ctx.fillStyle='#15141b';ctx.fillRect(100,base,1720,28);}
+}
+function poof(x,y,tl){if(tl<0||tl>0.5)return;const k=tl/0.5;ctx.save();ctx.globalAlpha=1-k;for(let i=0;i<8;i++){const a=i/8*TAU;line(x+Math.cos(a)*(8+k*30),y+Math.sin(a)*(8+k*30),x+Math.cos(a)*(14+k*44),y+Math.sin(a)*(14+k*44),7200+i,1,2.4,'#fff');}ctx.restore();}
+const PEOPLE=(()=>{const R=rng(7300),a=[];for(let i=0;i<16;i++)a.push({x:180+R()*1560,d:R()*0.5,s:0.28+R()*0.05});return a;})();
+function exitSign(x,y,s,glow,t,o={}){ctx.save();ctx.translate(x,y);ctx.scale(s,s);
+  softGlow(0,0,330,`rgba(57,210,122,${0.75*glow})`,1);
+  ctx.fillStyle=`rgba(20,60,36,1)`;ctx.fillRect(-180,-75,360,150);
+  ctx.fillStyle=`rgba(${Math.round(lerp(40,57,glow))},${Math.round(lerp(70,210,glow))},${Math.round(lerp(50,122,glow))},1)`;ctx.fillRect(-168,-63,336,126);
+  rect(-180,-75,360,150,7400,1,LW+1);
+  ctx.save();ctx.font='400 86px "PH"';ctx.textAlign='left';ctx.textBaseline='middle';ctx.fillStyle=glow>0.25?'#f4fff7':'#7da88c';ctx.fillText('EXIT',-150,4);ctx.restore();
+  // running pictogram
+  ctx.strokeStyle=glow>0.25?'#f4fff7':'#7da88c';ctx.lineWidth=7;ctx.lineCap='round';ctx.beginPath();ctx.arc(95,-36,11,0,TAU);ctx.stroke();
+  ctx.beginPath();ctx.moveTo(90,-22);ctx.lineTo(80,14);ctx.moveTo(80,14);ctx.lineTo(60,42);ctx.moveTo(80,14);ctx.lineTo(108,40);ctx.moveTo(86,-6);ctx.lineTo(62,-12);ctx.moveTo(86,-6);ctx.lineTo(112,4);ctx.stroke();
+  if(o.arrow!==false){ctx.beginPath();ctx.moveTo(130,0);ctx.lineTo(165,0);ctx.moveTo(152,-13);ctx.lineTo(165,0);ctx.lineTo(152,13);ctx.stroke();}
+  ctx.restore();}
+function battery(x,y,w,h,f,col,seed){fillPts([[x,y],[x+w,y],[x+w,y+h],[x,y+h]],PAPER);rect(x,y,w,h,seed,1,LW);ctx.fillStyle=INK;ctx.fillRect(x+w,y+h*0.3,10,h*0.4);
+  if(f>0){ctx.fillStyle=col;ctx.fillRect(x+8,y+8,(w-16)*f,h-16);}}
+function phone(x,y,s,pct,t,o={}){ctx.save();ctx.translate(x,y);ctx.scale(s,s);
+  ctx.fillStyle=PAPER;ctx.beginPath();ctx.roundRect(-130,-250,260,500,34);ctx.fill();ctx.strokeStyle=INK;ctx.lineWidth=LW+1;ctx.stroke();
+  ctx.fillStyle='#22212b';ctx.beginPath();ctx.roundRect(-112,-220,224,420,18);ctx.fill();
+  battery(-70,-70,130,70,pct/100,pct>20?'#7ad36a':RED,7500);
+  ctx.save();ctx.font='400 64px "PH"';ctx.textAlign='center';ctx.textBaseline='middle';ctx.fillStyle='#fff';ctx.fillText(Math.max(0,Math.round(pct))+'%',0,70);ctx.restore();
+  ctx.restore();
+  // cable
+  const plugX=x,plugY=y+250*s;const gap=o.unplug?eOut(clamp(o.unplug))*90:0;
+  fillPts([[plugX-18,plugY+gap],[plugX+18,plugY+gap],[plugX+18,plugY+gap+46],[plugX-18,plugY+gap+46]],INK);
+  strokePts(wob([[plugX,plugY+gap+46],[plugX+10,plugY+gap+140],[plugX-40,plugY+gap+230]],7510,1),1,6);
+  if(o.unplug>0&&o.unplug<1.2){for(let i=0;i<6;i++){const a=-Math.PI/2+(i-2.5)*0.4;line(plugX+Math.cos(a)*20,plugY+gap/2+Math.sin(a)*20,plugX+Math.cos(a)*44,plugY+gap/2+Math.sin(a)*44,7520+i,1,3,RED);}}
+}
+function powerPlant(x,y,t,on){ // y=ground
+  fillPts([[x,y],[x+260,y],[x+260,y-170],[x,y-170]],PAPER);rect(x,y-170,260,170,7600,1,LW);
+  for(let i=0;i<4;i++){ctx.fillStyle=on?WIN:'#cfcdd6';ctx.fillRect(x+24+i*58,y-120,32,38);}
+  const tw=[[x+300,y],[x+470,y],[x+440,y-290],[x+330,y-290]];fillPts(tw,PAPER);strokePts(wob([...tw,tw[0]],7601,0.8),1,LW);
+  fillPts([[x+200,y-170],[x+235,y-170],[x+235,y-360],[x+200,y-360]],PAPER);rect(x+200,y-360,35,190,7602,1,LW);
+  if(on){for(let i=0;i<4;i++){const ph=((t*0.6+i*0.25)%1);const cp=cloudPath(x+385+ph*40,y-320-ph*170,42+ph*30,26+ph*18,7610+i);ctx.save();ctx.globalAlpha=0.9*(1-ph);fillPts(cp,'#ffffff');strokePts(wob(cp,7620+i,0.6),1,2.4,'#999');ctx.restore();}}
+}
+function hospital(x,y,lit,t){fillPts([[x,y],[x+420,y],[x+420,y-380],[x,y-380]],PAPER);rect(x,y-380,420,380,7700,1,LW+0.6);
+  for(let r=0;r<4;r++)for(let c=0;c<4;c++){ctx.fillStyle=lit?WIN:'#3a3946';ctx.fillRect(x+40+c*95,y-330+r*78,50,46);}
+  ctx.fillStyle=RED;ctx.fillRect(x+180,y-470,60,150);ctx.fillRect(x+135,y-425,150,60);rect(x+180,y-470,60,150,7701,1,2.4,RED);}
+function generator(x,y,running,t,fuel){fillPts([[x,y],[x+230,y],[x+230,y-150],[x,y-150]],'#e7e4ec');rect(x,y-150,230,150,7710,1,LW);
+  for(let i=0;i<4;i++)line(x+30+i*25,y-120,x+30+i*25,y-30,7711+i,1,3);
+  // fuel gauge
+  const gx=x+160,gy=y-70;circ(gx,gy,40,{seed:7720,w:3,fill:PAPER});const a=Math.PI*(1.15+0.7*fuel*0+(-0.7+1.4*fuel));
+  line(gx,gy,gx+Math.cos(Math.PI+fuel*Math.PI)*32,gy+Math.sin(Math.PI+fuel*Math.PI)*32,7721,1,4,fuel<0.2?RED:INK);
+  txt('FUEL',gx,gy+62,30,{});
+  if(running){shakeMarks(x+115,y-75,130,7730,1);for(let i=0;i<3;i++){const ph=((t*1.5+i/3)%1);const cp=cloudPath(x+40-ph*30,y-170-ph*90,16+ph*16,10+ph*10,7740+i);ctx.save();ctx.globalAlpha=1-ph;fillPts(cp,'#d9d6de');strokePts(wob(cp,7750+i,0.5),1,2,'#888');ctx.restore();}}}
+function vacuum(x,y,s,t){ctx.save();ctx.translate(x,y);ctx.scale(s,s);ctx.fillStyle='#e9e7ef';ctx.beginPath();ctx.ellipse(0,0,80,30,0,0,TAU);ctx.fill();circ(0,0,80,{ry:30,seed:7800,w:LW});
+  circ(0,-8,22,{ry:8,seed:7801,w:2.4});ctx.fillStyle='#6ad16a';ctx.beginPath();ctx.arc(30,-6,5,0,TAU);ctx.fill();ctx.restore();}
+function dock(x,y,alive){fillPts([[x-50,y],[x+50,y],[x+40,y-110],[x-40,y-110]],'#d9d6de');strokePts(wob([[x-50,y],[x-40,y-110],[x+40,y-110],[x+50,y],[x-50,y]],7810,0.6),1,LW);
+  ctx.fillStyle=alive?'#6ad16a':'#3a3946';ctx.beginPath();ctx.arc(x,y-80,9,0,TAU);ctx.fill();}
+function iss(x,y,s,t,lit){ctx.save();ctx.translate(x,y);ctx.scale(s,s);ctx.rotate(-0.08);
+  if(lit)softGlow(0,0,260,'rgba(255,216,74,0.55)',1);
+  line(-300,0,300,0,7900,1,7);
+  for(const sx of[-270,-170,170,270])for(const sy of[-1,1]){const px=sx-35,py=sy<0?-150:20;fillPts([[px,py],[px+70,py],[px+70,py+130],[px,py+130]],'#c9d6ee');rect(px,py,70,130,7910+sx+sy,1,3);for(let k=1;k<4;k++)line(px,py+k*32,px+70,py+k*32,7920+k+sx,1,1.4,'#6a7aa0');line(sx,sy<0?-20:0,sx,sy<0?0:20,7930+sx,1,3);}
+  for(const[mx,mw]of[[-90,90],[10,110],[120,70]]){fillPts([[mx,-28],[mx+mw,-28],[mx+mw,28],[mx,28]],PAPER);rect(mx,-28,mw,56,7940+mx,1,3);
+    for(let k=0;k<2;k++){ctx.fillStyle=lit?WIN:'#3a3946';ctx.beginPath();ctx.arc(mx+mw*(k+1)/3,0,9,0,TAU);ctx.fill();}}
+  ctx.restore();}
+function solarLamp(x,y,s,lit){ctx.save();ctx.translate(x,y);ctx.scale(s,s);line(0,0,0,-160,8000+Math.floor(x),1,LW);
+  if(lit)softGlow(0,-190,90,'rgba(255,216,74,0.8)',1);
+  circ(0,-190,30,{seed:8010+Math.floor(x),w:3,fill:lit?'#fff3b0':'#d9d6de'});fillPts([[-36,-222],[36,-222],[28,-236],[-28,-236]],'#9fb2d6');strokePts([[-36,-222],[-28,-236],[28,-236],[36,-222],[-36,-222]],1,3);ctx.restore();}
+function cabin(x,y,lit,vines){fillPts([[x,y],[x+300,y],[x+300,y-190],[x,y-190]],PAPER);rect(x,y-190,300,190,8100,1,LW);
+  const roof=[[x-30,y-190],[x+150,y-320],[x+330,y-190]];fillPts(roof,'#d9d6de');strokePts(wob([...roof,roof[0]],8101,0.6),1,LW);
+  const pn=[[x+175,y-290],[x+280,y-215],[x+250,y-200],[x+150,y-272]];fillPts(pn,'#9fb2d6');strokePts(wob([...pn,pn[0]],8102,0.4),1,3);
+  if(lit)softGlow(x+90,y-100,120,'rgba(255,216,74,0.7)',1);ctx.fillStyle=lit?WIN:'#3a3946';ctx.fillRect(x+50,y-140,80,70);rect(x+50,y-140,80,70,8103,1,3);
+  fillPts([[x+190,y],[x+250,y],[x+250,y-110],[x+190,y-110]],'#cdb79a');rect(x+190,y-110,60,110,8104,1,3);
+  if(vines>0){const R=rng(8110);for(let v=0;v<7;v++){const vx=x+R()*300,len=vines*(80+R()*160);const pts=[];for(let i=0;i<=10;i++){pts.push([vx+Math.sin(i*1.3+v)*14,y-i*len/10]);}strokePts(pts,1,3.2,'#4f8a3c');for(let i=2;i<10;i+=2){const p=pts[i];ctx.fillStyle='#5ea34a';ctx.beginPath();ctx.ellipse(p[0]+8,p[1],9,5,0.5,0,TAU);ctx.fill();}}}}
+function clockBadge(label,a){if(a<=0||!label)return;ctx.save();ctx.globalAlpha=a;ctx.fillStyle=PAPER;ctx.fillRect(1560,40,320,96);rect(1560,40,320,96,8200,1,LW);
+  circ(1612,88,30,{seed:8201,w:3,fill:'#fff'});line(1612,88,1612,66,8202,1,3);line(1612,88,1630,94,8203,1,3);
+  txt(label,1760,90,58,{col:RED});ctx.restore();}
+
+
+window.KIND='C3';
+function bar(x,y,w,h,seed){ctx.save();ctx.fillStyle='#ffe14a';const R=rng(seed);ctx.beginPath();ctx.moveTo(x,y+R()*3);ctx.lineTo(x+w,y+R()*3);ctx.lineTo(x+w-2,y+h+R()*3);ctx.lineTo(x+2,y+h+R()*3);ctx.closePath();ctx.fill();ctx.restore();}
+function shockFace(x,y,r){for(const sd of[-1,1]){ctx.fillStyle='#fff';ctx.beginPath();ctx.arc(x+sd*r*0.36,y-r*0.12,r*0.26,0,TAU);ctx.fill();circ(x+sd*r*0.36,y-r*0.12,r*0.26,{seed:9000+sd,w:2});
+    ctx.fillStyle=INK;ctx.beginPath();ctx.arc(x+sd*r*0.36,y-r*0.08,r*0.11,0,TAU);ctx.fill();line(x+sd*r*0.12,y-r*0.66,x+sd*r*0.58,y-r*0.5,9010+sd,1,2.6);}
+  ctx.fillStyle='#3a1414';ctx.beginPath();ctx.ellipse(x,y+r*0.45,r*0.2,r*0.27,0,0,TAU);ctx.fill();circ(x,y+r*0.45,r*0.2,{ry:r*0.27,seed:9020,w:2.2});}
+const PANIC={la:[-2.0,2.79],ra:[2.0,-2.79],ll:[-0.3,-0.24],rl:[0.3,0.24],paper:0};
+function panic(x,y,s,seed){figure(x,y,PANIC,{s,seed});shockFace(x,y-264*s,38*s);}
+function darkCity(x0,y0,w,h,seed){ctx.fillStyle=NIGHT;ctx.fillRect(x0,y0,w,h);const R=rng(seed);let x=x0+10;while(x<x0+w-30){const bw=34+R()*40,bh=60+R()*(h*0.55);ctx.fillStyle='#3d3c4a';ctx.fillRect(x,y0+h-bh,bw,bh);for(let r=0;r<bh/22-1;r++)for(let c=0;c<bw/16-1;c++){ctx.fillStyle='#2a2934';ctx.fillRect(x+6+c*16,y0+h-bh+8+r*22,8,10);}x+=bw+6;}rect(x0,y0,w,h,seed+1,1,LW);}
+function drawT(k){ctx.setTransform(1,0,0,1,0,0);ctx.fillStyle=BG;ctx.fillRect(0,0,W,H);ctx.scale(3,3);const t=1.2;
+  if(k==='L1'){ // THE LAST LIGHT (16:9 640x360)
+    darkCity(150,110,480,240,9101);exitSign(420,215,0.62,1,t,{});
+    bar(16,10,430,86,9102);txt('THE LAST LIGHT',231,55,74,{col:RED});
+    panic(85,400,1.0,9103);}
+  else if(k==='L2'){ // NOBODY HOME: glowing ISS above dark Earth
+    ctx.fillStyle=NIGHT;ctx.fillRect(150,100,480,250);rect(150,100,480,250,9201,1,LW);
+    ctx.save();ctx.beginPath();ctx.rect(150,100,480,250);ctx.clip();ctx.beginPath();ctx.arc(390,900,600,0,TAU);ctx.fillStyle='#14131a';ctx.fill();ctx.restore();
+    iss(400,210,0.48,t,true);bar(16,10,400,86,9202);txt('NOBODY HOME',216,55,74,{col:RED});panic(85,400,1.0,9203);}
+  else if(k==='L3'){ // MAYBE NEVER: light rings leaving dark Earth
+    ctx.fillStyle=NIGHT;ctx.fillRect(150,100,480,250);rect(150,100,480,250,9301,1,LW);
+    ctx.save();ctx.beginPath();ctx.rect(150,100,480,250);ctx.clip();softGlow(420,230,160,'rgba(255,216,74,0.55)',1);for(let i=0;i<4;i++){ctx.strokeStyle=WIN;ctx.globalAlpha=0.9-i*0.2;ctx.lineWidth=4;ctx.beginPath();ctx.arc(420,230,70+i*45,0,TAU);ctx.stroke();}ctx.restore();
+    earth(420,230,52,{seed:9302,simple:true,w:3.4});bar(16,10,440,86,9303);txt('NEVER GOES OUT?',236,55,58,{col:RED});panic(85,400,1.0,9304);}
+  else if(k==='L4'){ // minimal: the vacuum
+    ctx.fillStyle='#fbfbfd';ctx.fillRect(0,0,640,360);txt('STILL CLEANING.',220,58,70,{});
+    line(0,280,640,280,9401,1,LW);vacuum(230,300,1.4,t);ctx.save();cam(0.8,500,280);dock(500,280,false);ctx.restore();
+    txt('(DEAD DOCK)',500,150,36,{col:RED});arrow(500,170,500,205,{seed:9402,col:RED,w:3,head:10});}
+  // ---- 9:16 covers (360x640) ----
+  else if(k==='C1'){ctx.fillStyle=NIGHT;ctx.fillRect(10,190,340,290);rect(10,190,340,290,9501,1,LW);ctx.save();ctx.beginPath();ctx.rect(10,190,340,290);ctx.clip();ctx.beginPath();ctx.arc(180,860,500,0,TAU);ctx.fillStyle='#14131a';ctx.fill();ctx.restore();
+    iss(185,320,0.5,t,true);bar(14,20,332,150,9502);txt('NOBODY',180,62,84,{col:RED});txt('HOME',180,136,84,{col:RED});panic(110,860,1.15,9503);}
+  else if(k==='C2'){ctx.fillStyle=NIGHT;ctx.fillRect(10,190,340,290);rect(10,190,340,290,9601,1,LW);exitSign(180,330,0.78,1,t,{});
+    bar(14,20,332,150,9602);txt('50 YEARS',180,62,84,{col:RED});txt('NO POWER',180,136,74,{});panic(110,860,1.15,9603);}
+  else if(k==='C3'){ // v2: phone-first, everything inside the 2:3 crop (y 67-573)
+    ctx.fillStyle='#ece8df';ctx.fillRect(0,400,360,240);line(0,400,360,400,9701,1,LW);
+    vacuum(245,470,1.3,t);softGlow(284,462,30,'rgba(90,230,100,0.9)',1);ctx.fillStyle='#6ad16a';ctx.beginPath();ctx.arc(284,462,6,0,TAU);ctx.fill();
+    for(const[x,y,r]of[[150,425,11],[330,430,9],[205,520,8],[335,510,10]]){ctx.strokeStyle=INK;ctx.lineWidth=3;ctx.lineCap='round';ctx.beginPath();ctx.moveTo(x-r,y);ctx.lineTo(x+r,y);ctx.moveTo(x,y-r);ctx.lineTo(x,y+r);ctx.stroke();}
+    circ(292,300,40,{seed:9703,w:4,fill:'#fff'});line(292,300,292,270,9704,1,5);line(292,300,268,300,9705,1,5);txt('9:00 AM',292,360,30,{});
+    panic(80,640,1.12,9707);
+    bar(16,72,328,138,9702);txt('STILL',180,112,82,{col:RED});txt('CLEANING',180,178,78,{col:RED});}
+  else {ctx.fillStyle=NIGHT;ctx.fillRect(10,190,340,290);rect(10,190,340,290,9801,1,LW);ctx.save();ctx.beginPath();ctx.rect(10,190,340,290);ctx.clip();softGlow(180,335,160,'rgba(255,216,74,0.55)',1);for(let i=0;i<4;i++){ctx.strokeStyle=WIN;ctx.globalAlpha=0.9-i*0.2;ctx.lineWidth=4;ctx.beginPath();ctx.arc(180,335,62+i*40,0,TAU);ctx.stroke();}ctx.restore();
+    earth(180,335,46,{seed:9802,simple:true,w:3.4});bar(14,20,332,150,9803);txt('MAYBE',180,62,90,{col:RED});txt('NEVER',180,136,90,{col:RED});panic(110,860,1.15,9804);}
+}
+window.ready=Promise.all([document.fonts.load('40px "PH"'),document.fonts.load('40px "PHL"')]).then(()=>document.fonts.ready).then(()=>drawT(window.KIND));
+</script></body></html>

diff --git a/episode4-last-light/publish/03_robot_vacuum/post.md b/episode4-last-light/publish/03_robot_vacuum/post.md
@@ -1,20 +1,27 @@
-# Short 3
+# Short — Robot vacuum (publish first)
 
-**Title**
+**Title** (searchable word first)
 ```
-Robot vacuum: what happens after every human vanishes 🤖
+Robot Vacuum: What It Does After Every Human Vanishes 🤖
 ```
 
 **Description**
 ```
-Every human on Earth just vanished. The cities go dark. Your phone stops charging… and somewhere, a robot vacuum starts its 9 a.m. clean. Spotless. Then the dock is dead.
+Every human on Earth just vanished. The cities go dark, your phone stops charging… but at 9 a.m., your robot vacuum starts cleaning anyway. Empty house. Spotless. Then it drives back to its dock… and the dock is dead.
 
-What would YOUR house do without you? 👇
-Full video on the channel 👆
+What would YOUR robot vacuum do without you? 👇
+Full video: Every Human Vanished. One Light Will Never Go Out. 👆
 
-#robotvacuum #whatif #science #funny #technology #shorts
+#robotvacuum #whatif #science #shorts
+```
+
+**Tags** (Studio → Details → Show more → Tags)
+```
+robot vacuum, robot vacuum cleaner, what if humans disappeared, every human vanished, what happens if humans disappear, life after people, world without humans, what if, science shorts, ink and atoms
 ```
 
 **Related video:** Every Human Vanished. One Light Will Never Go Out.
 
 **Pinned comment:** What would YOUR robot vacuum do without you? 🤖 Wrong answers only 👇
+
+**Cover:** cover.png (inside the 2:3 crop; checked at 180×320)
